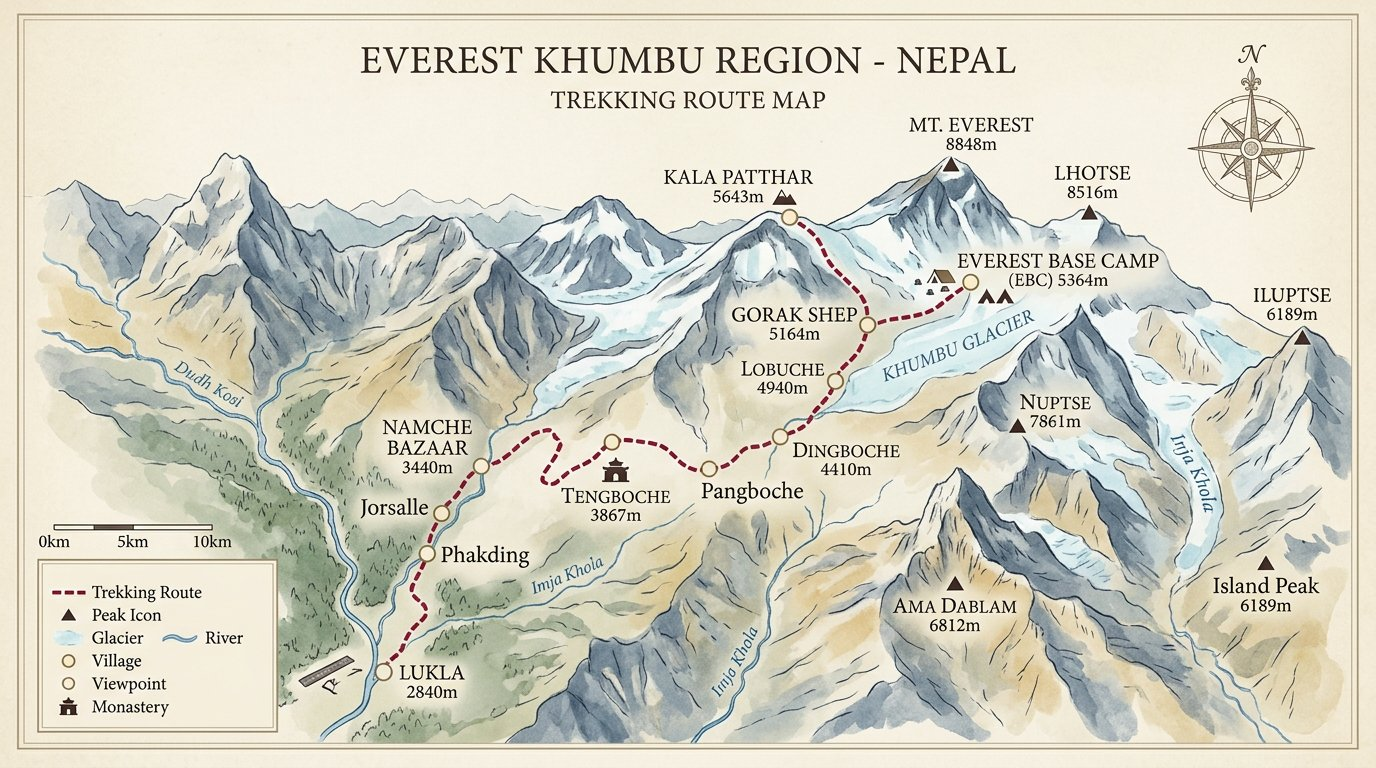
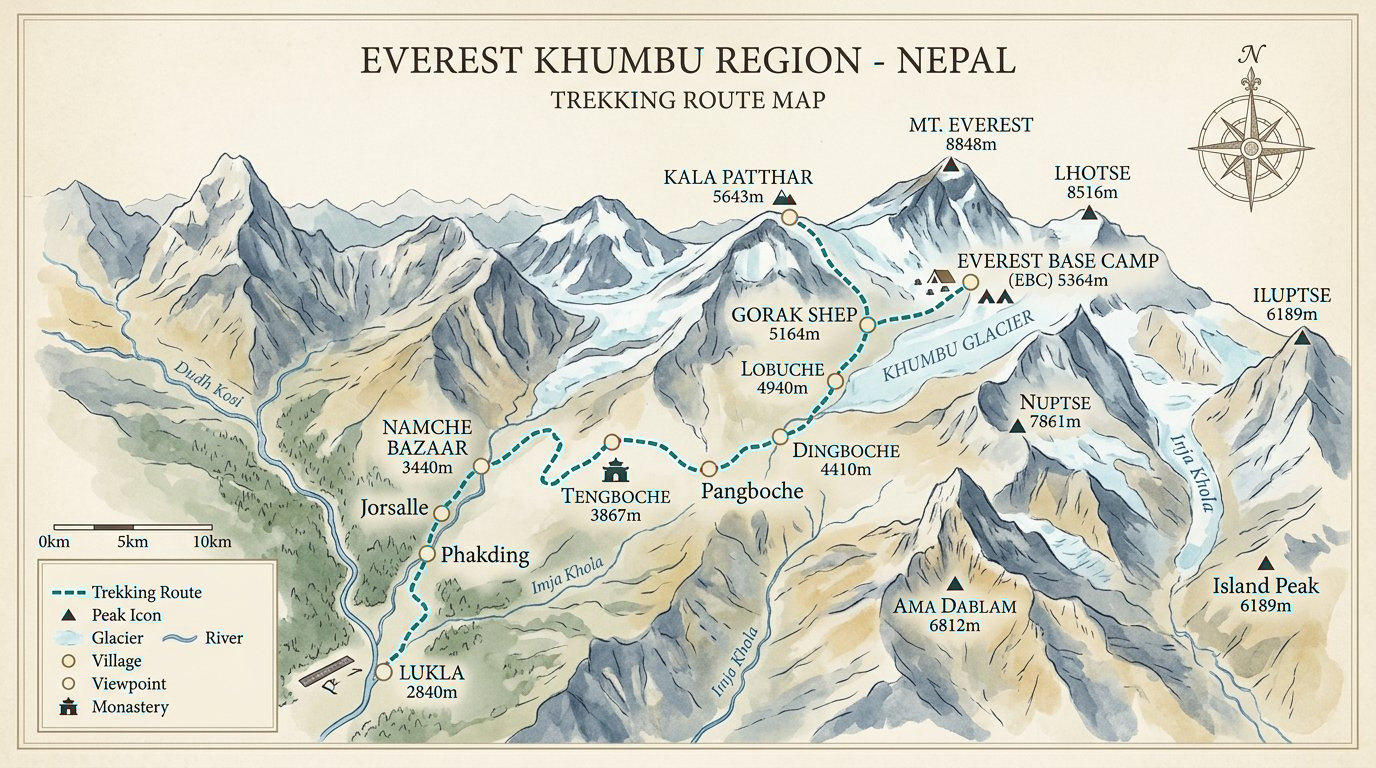
Replace the red accent with an ocean-teal palette across the site
- --clay/--tsp-clay become #0f8378 (plus --clay-bright for dark bands and
  --clay-deep for gradients); --gold becomes a true sun gold for review stars
- The single trip page's left-rail Book now CTA is now a teal gradient
- Negative states (sold-out departures, excludes column, calendar errors)
  move from red to an ochre --tsp-amber so nothing reads as red
- Recolour the dashed trekking route on the illustrated route map to teal
  and update its legend copy
- Add scripts/check-no-red.mjs to npm test as a palette guard

diff --git a/src/styles/trip-single.css b/src/styles/trip-single.css
@@ -24,17 +24,19 @@
   --tsp-surface: #ffffff;
   --tsp-surface-2: #f6f8fb;
   --tsp-surface-3: #eef3f7;
-  --tsp-clay: #e63946;
-  --tsp-clay-deep: #b8202d;
+  --tsp-clay: #0f8378;
+  --tsp-clay-deep: #0a5f57;
   --tsp-sand: #a8dadc;
   --tsp-sage: #457b9d;
   --tsp-gold: #c9962d;
   --tsp-green: #1f7a4d;
   --tsp-green-soft: #eaf6ef;
   --tsp-green-line: rgba(31, 122, 77, 0.28);
-  --tsp-red: #c0263a;
-  --tsp-red-soft: #fdeff0;
-  --tsp-red-line: rgba(192, 38, 58, 0.26);
+  /* Negative / unavailable states (sold-out departures, exclusions,
+     form errors) read as a deep ochre so nothing on the page is red. */
+  --tsp-amber: #9c6414;
+  --tsp-amber-soft: #fdf4e6;
+  --tsp-amber-line: rgba(156, 100, 20, 0.26);
 
   /* --- rhythm --- */
   --tsp-gutter: clamp(16px, 4.2vw, 72px);
@@ -65,7 +67,7 @@
 
   background:
     radial-gradient(1200px 620px at 88% -6%, rgba(168, 218, 220, 0.2), transparent 62%),
-    radial-gradient(900px 520px at -8% 24%, rgba(230, 57, 70, 0.06), transparent 60%),
+    radial-gradient(900px 520px at -8% 24%, rgba(15, 131, 120, 0.07), transparent 60%),
     #fdfdfb;
   color: var(--tsp-body);
   font-size: var(--tsp-body-size);
@@ -310,13 +312,13 @@
   translate: -50% -50%;
   background: conic-gradient(
     from 0deg,
-    rgba(230, 57, 70, 0) 0deg,
-    #e63946 42deg,
+    rgba(15, 131, 120, 0) 0deg,
+    #0f8378 42deg,
     #f2b705 88deg,
     #a8dadc 150deg,
     rgba(69, 123, 157, 0) 205deg,
-    rgba(230, 57, 70, 0) 300deg,
-    #e63946 360deg
+    rgba(15, 131, 120, 0) 300deg,
+    #0f8378 360deg
   );
   animation: tsp-orbit 7.5s linear infinite;
 }
@@ -335,7 +337,7 @@
   inset: -16px -14px -22px;
   z-index: -1;
   border-radius: 40px;
-  background: radial-gradient(60% 60% at 50% 40%, rgba(230, 57, 70, 0.26), transparent 70%),
+  background: radial-gradient(60% 60% at 50% 40%, rgba(15, 131, 120, 0.26), transparent 70%),
     radial-gradient(60% 60% at 50% 90%, rgba(168, 218, 220, 0.3), transparent 72%);
   filter: blur(14px);
   animation: tsp-breathe 5.5s ease-in-out infinite;
@@ -684,9 +686,9 @@
   place-items: center;
   min-width: 26px;
   padding: 3px 7px;
-  border: 1px solid rgba(230, 57, 70, 0.3);
+  border: 1px solid rgba(15, 131, 120, 0.3);
   border-radius: 7px;
-  background: rgba(230, 57, 70, 0.07);
+  background: rgba(15, 131, 120, 0.07);
   font-variant-numeric: tabular-nums;
 }
 
@@ -886,7 +888,7 @@
 
 @keyframes tsp-flash {
   0%, 100% { box-shadow: var(--tsp-shadow); }
-  35% { box-shadow: 0 0 0 4px rgba(230, 57, 70, 0.22), var(--tsp-shadow); }
+  35% { box-shadow: 0 0 0 4px rgba(15, 131, 120, 0.22), var(--tsp-shadow); }
 }
 
 .tsp-calendar {
@@ -1052,7 +1054,7 @@
   box-shadow: none;
 }
 
-.tsp-day--departure.is-sold-out .tsp-day__dot { background: var(--tsp-red); opacity: 0.55; }
+.tsp-day--departure.is-sold-out .tsp-day__dot { background: var(--tsp-amber); opacity: 0.55; }
 
 .tsp-day--departure:hover:not(:disabled) {
   transform: translateY(-2px);
@@ -1124,7 +1126,7 @@
 
 .tsp-calendar__legend .is-available { background: var(--tsp-green); }
 .tsp-calendar__legend .is-limited { background: var(--tsp-gold); }
-.tsp-calendar__legend .is-sold-out { background: var(--tsp-red); opacity: 0.6; }
+.tsp-calendar__legend .is-sold-out { background: var(--tsp-amber); opacity: 0.6; }
 
 /* ---- Enquiry form ---- */
 
@@ -1243,8 +1245,8 @@
 .tsp-calendar__error {
   padding: 9px 13px;
   border-radius: 9px;
-  background: var(--tsp-red-soft);
-  color: var(--tsp-red);
+  background: var(--tsp-amber-soft);
+  color: var(--tsp-amber);
   font-size: var(--tsp-small);
   font-weight: 600;
 }
@@ -1272,20 +1274,20 @@
   margin-top: 4px;
   padding: clamp(13px, 1.15vw, 20px) clamp(16px, 1.4vw, 26px);
   border-radius: 999px;
-  background: linear-gradient(115deg, #e63946 0%, #c81e2c 46%, #8d1520 100%);
+  background: linear-gradient(115deg, #15a08f 0%, #0f8378 46%, #084f49 100%);
   color: #fff;
   font-size: calc(var(--tsp-body-size) * 1.02);
   font-weight: 700;
   letter-spacing: 0.01em;
   overflow: hidden;
-  box-shadow: 0 16px 34px -16px rgba(230, 57, 70, 0.75), inset 0 1px 0 rgba(255, 255, 255, 0.24);
+  box-shadow: 0 16px 34px -16px rgba(15, 131, 120, 0.75), inset 0 1px 0 rgba(255, 255, 255, 0.24);
   transition: transform 0.25s var(--tsp-ease), box-shadow 0.25s var(--tsp-ease), filter 0.25s var(--tsp-ease);
 }
 
 .tsp-bookBtn:hover {
   transform: translateY(-2px);
   filter: saturate(1.08);
-  box-shadow: 0 22px 44px -18px rgba(230, 57, 70, 0.85), inset 0 1px 0 rgba(255, 255, 255, 0.3);
+  box-shadow: 0 22px 44px -18px rgba(15, 131, 120, 0.85), inset 0 1px 0 rgba(255, 255, 255, 0.3);
 }
 
 .tsp-bookBtn:active { transform: translateY(0); }
@@ -1773,19 +1775,19 @@
 .tsp-inex__col--in li { color: #23503c; }
 .tsp-inex__col--in li i { background: var(--tsp-green); }
 
-/* Reddish excludes */
+/* Ochre excludes */
 .tsp-inex__col--ex {
-  border-color: var(--tsp-red-line);
-  background: linear-gradient(180deg, #fff5f6, #ffffff 70%);
+  border-color: var(--tsp-amber-line);
+  background: linear-gradient(180deg, #fdf7ea, #ffffff 70%);
 }
 .tsp-inex__col--ex header {
-  border-color: var(--tsp-red-line);
-  background: linear-gradient(120deg, rgba(192, 38, 58, 0.14), rgba(192, 38, 58, 0.04));
+  border-color: var(--tsp-amber-line);
+  background: linear-gradient(120deg, rgba(156, 100, 20, 0.14), rgba(156, 100, 20, 0.04));
 }
-.tsp-inex__col--ex header span { background: var(--tsp-red); }
-.tsp-inex__col--ex h3 { color: #8d1523; }
-.tsp-inex__col--ex li { color: #6e3038; }
-.tsp-inex__col--ex li i { background: var(--tsp-red); }
+.tsp-inex__col--ex header span { background: var(--tsp-amber); }
+.tsp-inex__col--ex h3 { color: #7a4e10; }
+.tsp-inex__col--ex li { color: #63512f; }
+.tsp-inex__col--ex li i { background: var(--tsp-amber); }
 
 /* ------------------------------------------------------------
    11 · Map
@@ -2017,7 +2019,7 @@
   inset: auto -10% -60% auto;
   width: 60%;
   aspect-ratio: 1;
-  background: radial-gradient(circle, rgba(230, 57, 70, 0.32), transparent 62%);
+  background: radial-gradient(circle, rgba(15, 131, 120, 0.32), transparent 62%);
   pointer-events: none;
 }
 

diff --git a/src/styles.css b/src/styles.css
@@ -16,8 +16,14 @@
   --forest-deep: #1d3557;
   --sage: #457b9d;
   --sand: #a8dadc;
-  --clay: #e63946;
-  --gold: #e63946;
+  /* Accent: ocean teal — the brand's action colour on light surfaces.
+     `--clay-bright` is the same hue lifted for dark backgrounds (hero
+     bands, marquees, stat blocks) where the deep teal would sink in. */
+  --clay: #0f8378;
+  --clay-deep: #0a5f57;
+  --clay-bright: #3fc0ab;
+  /* Warm sun gold — review stars and other "earned" marks. */
+  --gold: #c9962d;
   --line: rgba(29, 53, 87, 0.17);
   --line-light: rgba(241, 250, 238, 0.28);
   --display: 'Cal Sans', 'DM Sans', Arial, sans-serif;
@@ -1197,7 +1203,8 @@ dd {
   flex: 0 0 auto;
   width: 10px;
   height: 1px;
-  background: var(--clay);
+  /* Sits on the card photography — the lifted teal keeps it readable. */
+  background: var(--clay-bright);
   transition: width 0.55s var(--ease-out);
 }
 

diff --git a/src/styles/destinations.css b/src/styles/destinations.css
@@ -246,7 +246,7 @@
 }
 
 .dp-marquee__item svg {
-  color: var(--clay);
+  color: var(--clay-bright);
   flex: none;
 }
 
@@ -484,7 +484,7 @@
 .dp-rail__line i {
   position: absolute;
   inset: 0;
-  background: var(--clay);
+  background: var(--clay-bright);
   transform: scaleX(0);
   transform-origin: 0 50%;
 }
@@ -564,7 +564,7 @@
 }
 
 .dp-stats__suffix {
-  color: var(--clay);
+  color: var(--clay-bright);
   font-size: 0.6em;
 }
 
@@ -983,7 +983,7 @@
 }
 
 .dp-craft__steps button.is-active span {
-  color: var(--clay);
+  color: var(--clay-bright);
 }
 
 .dp-craft__scroll {
@@ -1200,7 +1200,7 @@
 }
 
 .dp-voices__dots button.is-active {
-  background: var(--clay);
+  background: var(--clay-bright);
 }
 
 .dp-voices__arrows {

diff --git a/src/data/tripPageContent.js b/src/data/tripPageContent.js
@@ -319,7 +319,7 @@ function buildDefault(trip) {
       alt: `Illustrated route map of the ${trip.title} trek showing villages, altitudes and the daily trail`,
       caption: `${trip.title} — full route, overnight villages and altitude profile.`,
       legend: [
-        { label: 'Trekking route', value: 'Dashed red line, walked daily' },
+        { label: 'Trekking route', value: 'Dashed teal line, walked daily' },
         { label: 'Overnight stops', value: 'Circled villages, all lodge-based' },
         { label: 'High point', value: trip.elevation },
         { label: 'Total distance', value: `${Math.round(days * 9.5)} km on foot` },

diff --git a/src/components/JournalSection.jsx b/src/components/JournalSection.jsx
@@ -90,7 +90,7 @@ export default function JournalSection() {
           right: 16px !important;
           left: auto !important;
           bottom: auto !important;
-          background: #E63946 !important;
+          background: #0F8378 !important;
           color: #fff !important;
           padding: 6px 12px !important;
           font-size: 10px !important;

diff --git a/src/styles/trips.css b/src/styles/trips.css
@@ -237,7 +237,7 @@
 }
 
 .tp-marquee__item svg {
-  color: var(--clay);
+  color: var(--clay-bright);
   flex: none;
 }
 
@@ -920,7 +920,7 @@
 }
 
 .tp-stats__suffix {
-  color: var(--clay);
+  color: var(--clay-bright);
   font-size: 0.6em;
 }
 

diff --git a/README.md b/README.md
@@ -16,7 +16,7 @@ A premium, editorial travel-booking homepage for locally led Himalayan journeys.
   title/excerpt/byline, a highlights box, trek overview, day-to-day outline, a paginated
   booking calendar (name, email, country, travellers, Book now), a full-itinerary
   accordion with an altitude/duration/accommodation/meals fact box and auto-sliding
-  photography, green/red includes & excludes columns, essential information, an
+  photography, green/ochre includes & excludes columns, essential information, an
   illustrated route map, a four-box packing list, an FAQ accordion, and a sticky
   left price rail with an animated glowing border
 - Functional trip discovery, search, filters, sorting and results
@@ -36,11 +36,28 @@ npm run dev
 
 The Vite development server runs on `http://localhost:5173` by default.
 
+## Palette
+
+The accent is an ocean teal — there is no red anywhere in the interface.
+
+| Token | Value | Used for |
+| --- | --- | --- |
+| `--clay` | `#0f8378` | the accent on light surfaces: CTAs, links, hovers, rules |
+| `--clay-deep` | `#0a5f57` | the darker end of accent gradients |
+| `--clay-bright` | `#3fc0ab` | the same accent lifted for dark bands (marquees, stats, hero) |
+| `--gold` | `#c9962d` | review stars and other earned marks |
+| `--tsp-green` | `#1f7a4d` | "included" / confirmed states |
+| `--tsp-amber` | `#9c6414` | "not included", sold-out departures, form errors |
+
+`scripts/check-no-red.mjs` (part of `npm test`) scans every colour literal in
+`src/` and fails the build if a red one ever comes back.
+
 ## Validation
 
 ```bash
 npm run lint
 npm run build
+npm test
 ```
 
 ## Structure
